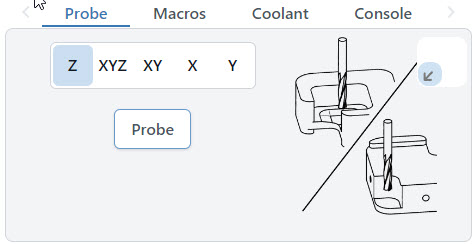
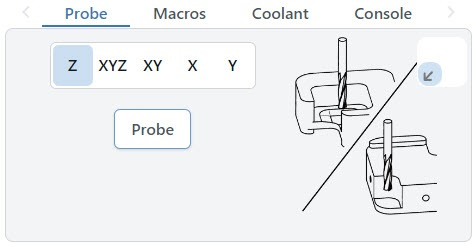
Reviewed image extension changes and made new files to migrate easier

diff --git a/lmmk2/lmk2-the-basics/lmk2-touch-plates.md b/lmmk2/lmk2-the-basics/lmk2-touch-plates.md
@@ -1,25 +1,25 @@
 ---
-title: Touch Plates
-menu_order: 9
+title: Touch Plates ⚡
+menu_order: 8
 post_status: publish
 post_excerpt: LongMill touch plate documentation found here. A touch plate is an easy way to find the origin point on your material, for accurate positioning of the material.
-post_date: 2021-04-19 16:35:00
+post_date: 2022-03-17 19:48:00
 taxonomy:
-    knowledgebase_cat: lm-the-basics
+    knowledgebase_cat: lmk2-the-basics
     knowledgebase_tag:
-        - mk1
+        - mk2
 custom_fields:
-    KBName: LongMill CNC
+    KBName: LongMill MK2 CNC
     basepress_post_icon: bp-caret-right
 skip_file: no
-featured_image: _images/_longmill/_assembly/_addons/lm_addons_p8_Corner.png
+featured_image: _images/_longmill/_assembly/_addons/lm_addons_p8-corner.jpg
 ---
 
 A touch plate can make it quicker and easier to find your origin point on your material. There are a lot of different types of touch plates, but the vast majority use some sort of metal block that detects when your end mill makes contact with its surface by completing a circuit.
 
 Among touch plates, you can find ones that measure just the Z-axis or some that can also find the offset between the X and Y-axes as well. Locating in the X and Y-axes is a nice additional feature, but it doesn't work for irregularly shaped bits such as v-bits and dado bits due to their inconsistent diameter along their height or radius.
 
-The <a href="https://sienci.com/product/touch-plate/" target="_blank" rel="noopener">Sienci Labs Touch Plate</a> is an excellent example of a touch plate that lets you find the corner of your material in all three axes automatically. The full written guide on getting it assembled and ready to use can be found here: <a href="https://resources.sienci.com/view/assembling-add-ons/" target="_blank" rel="noopener">Setting up the Sienci Labs Touch Plate</a>
+The <a href="https://sienci.com/product/touch-plate/" target="_blank" rel="noopener">Sienci Labs Touch Plate</a> is an excellent example of a touch plate that lets you find the corner of your material in all three axes automatically. The full written guide on getting it assembled and ready to use can be found here: <a href="https://resources.sienci.com/view/lmk2-touch-plate/" target="_blank" rel="noopener">Setting up the Sienci Labs Touch Plate</a>
 
 https://www.youtube.com/watch?v=H_fYFjtFc3Q
 

diff --git a/lmmk2/lmk2-add-ons/lmk2-t-track-set.md b/lmmk2/lmk2-add-ons/lmk2-t-track-set.md
@@ -12,7 +12,7 @@ custom_fields:
     KBName: LongMill MK2 CNC
     basepress_post_icon: bp-caret-right
 skip_file: no
-featured_image: _images/_longmill/_assembly/_addons/lm_addons_p18.png
+featured_image: _images/_longmill/_assembly/_addons/lm_addons_p18.jpg
 ---
 
 A T-Track system can be very useful and functional for your CNC bed if you find that it suits your needs. This workholding option comes alongside a wide variety of other options that exist when it comes to mounting materials and setting up jigs for your LongMill which you can read more about here: <a href="https://resources.sienci.com/view/lmk2-workholding/" target="_blank" rel="noopener">https://resources.sienci.com/view/lmk2-workholding/</a>
@@ -30,7 +30,7 @@ https://youtu.be/T4QVgtnZMDw
 
 This layout minimizes reductions in cutting area and depth, and can be prepared in advance before your machine arrives. It uses a 48”x48”x ¾” MDF sheet, which can be purchased and cut to size at home or at your local hardware store.
 
-![](/_images/_longmill/_assembly/_addons/lm_addons_p18.png){.aligncenter .size-medium}
+![](/_images/_longmill/_assembly/_addons/lm_addons_p18.jpg){.aligncenter .size-medium}
 
 1. Cut a 48” x 48” x ¾” MDF sheet into five pieces of 6” wide planks, and two pieces of 5 ½ ” wide planks.
 1. Lay out the T-tracks and planks on the table, and fasten them down with wood screws. The machine will sit on top of the 5 ½” planks, as the 6” planks are arranged between them. They should be fastened with screws at least 1” in length. Leave about 1” of space between the screws and the ends of the MDF planks.
@@ -69,7 +69,7 @@ T-clamps are simple and reliable workholding tools that are used alongside T-Tra
 1. Move and adjust the clamp to push down onto the workpiece, ensuring that the end cap side of the clamp is lower than the bolt end. Tighten both bolts until snug. Position the clamps so that there is enough space for your cutting job on your workpiece.
 1. Push your material to check if it is secured onto the table. If not, use more t-clamps or other workholding methods.
 
-![](/_images/_longmill/_assembly/_addons/lm_addons_p21.png){.aligncenter .size-medium}
+![](/_images/_longmill/_assembly/_addons/lm_addons_p21.jpg){.aligncenter .size-medium}
 
 ## Making your own clamps
 

diff --git a/lmmk2/the-basics/lmk2-touch-plates.md b/lmmk2/the-basics/lmk2-touch-plates.md
@@ -12,7 +12,7 @@ custom_fields:
     KBName: LongMill MK2 CNC
     basepress_post_icon: bp-caret-right
 skip_file: no
-featured_image: _images/_longmill/_assembly/_addons/lm_addons_p8-corner.jpg
+featured_image: _images/_longmill/_assembly/_addons/lm_addons_p8_Corner.png
 ---
 
 A touch plate can make it quicker and easier to find your origin point on your material. There are a lot of different types of touch plates, but the vast majority use some sort of metal block that detects when your end mill makes contact with its surface by completing a circuit.

diff --git a/longmill/lm-the-basics/lm-touch-plates.md b/longmill/lm-the-basics/lm-touch-plates.md
@@ -12,7 +12,7 @@ custom_fields:
     KBName: LongMill CNC
     basepress_post_icon: bp-caret-right
 skip_file: no
-featured_image: _images/_longmill/_assembly/_addons/lm_addons_p8_Corner.png
+featured_image: _images/_longmill/_assembly/_addons/lm_addons_p8-corner.jpg
 ---
 
 A touch plate can make it quicker and easier to find your origin point on your material. There are a lot of different types of touch plates, but the vast majority use some sort of metal block that detects when your end mill makes contact with its surface by completing a circuit.
